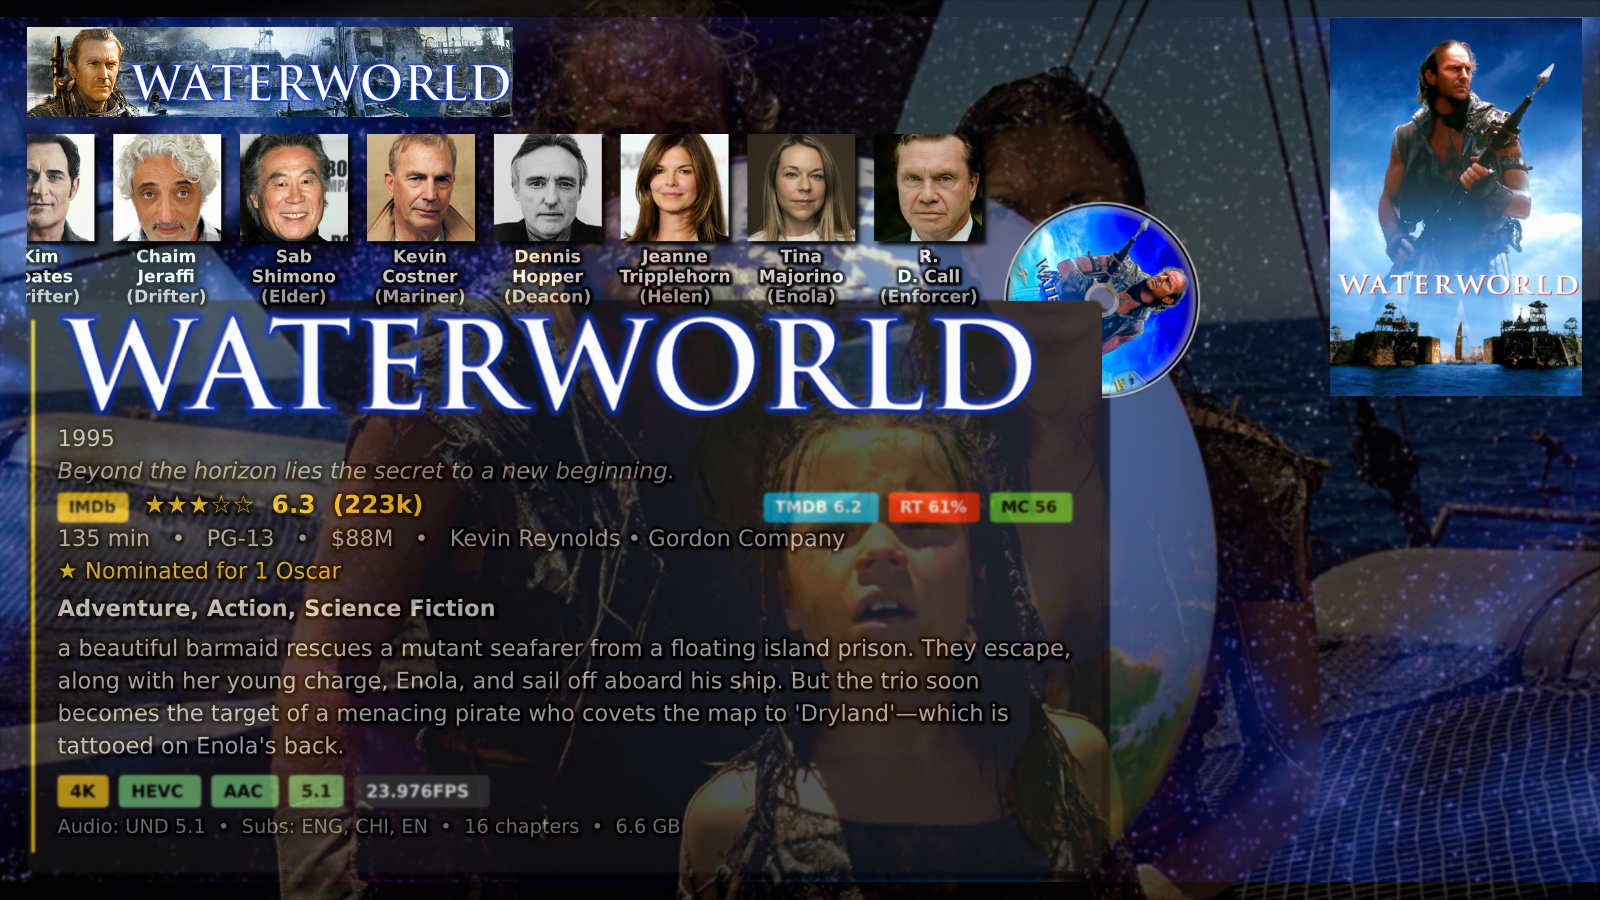
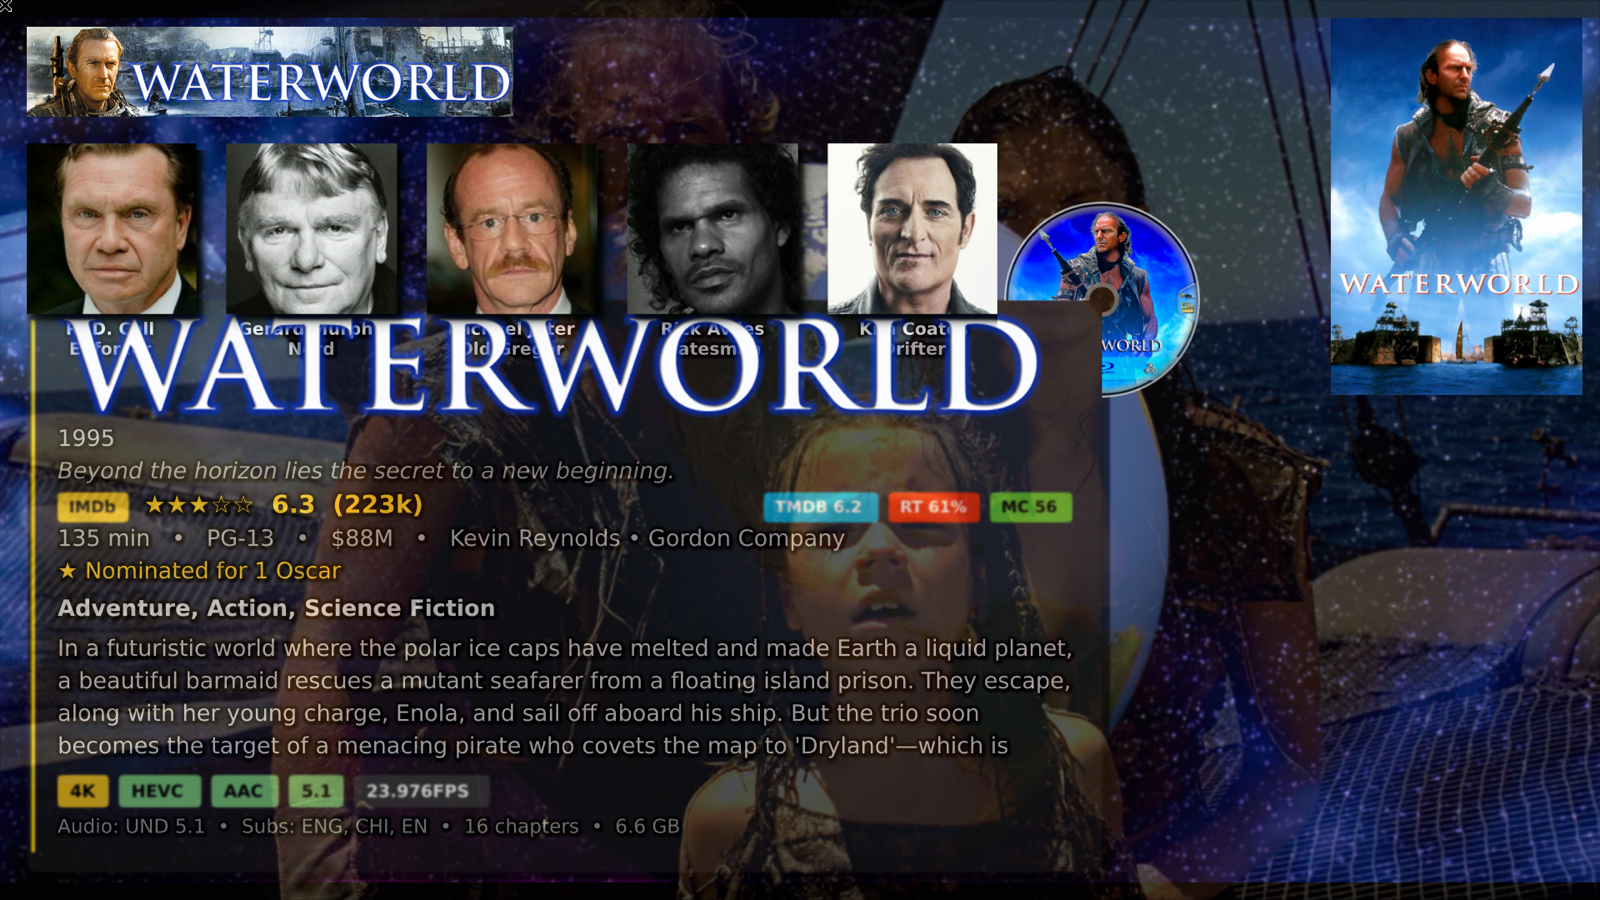
spincard: enlarge cast-head strip (0.19), one-line names, drop role parens; refresh README shots
- casthead_height 0.12 -> 0.19 so name/role labels get more width (label fs stays 16, so wider box fits more chars).
- Cast-head labels: names now a single line (both scroll + static); role line drops the () wrapper.
- Refresh README screenshots (1600x900): Waterworld, Breaking Bad S04E01, and the remote-art shot -> Mechanic: Resurrection (Avatar: Fire and Ash gained local poster/fanart, so it no longer shows the TMDB clearlogo). README alt-text updated to match.

diff --git a/README.md b/README.md
@@ -14,7 +14,7 @@ unless you add its key.
 
 ![spincard — Waterworld: a top-left scrolling cast-headshot strip with names and roles, local banner and clearlogo title, poster and a spinning disc, an IMDb · Rotten Tomatoes · Metacritic · TMDB rating row, awards, box office, genres, scrolling plot and tier-coloured tech pills](docs/screenshots/spindisc.png)
 
-![spincard — Avatar: Fire and Ash: a scrolling cast-headshot strip, plus TMDB-hosted clearlogo, poster and fanart with no local artwork, an IMDb · Rotten Tomatoes · Metacritic · TMDB rating row, "Won 1 Oscar", box office, genres above a scrolling plot](docs/screenshots/movie.png)
+![spincard — Mechanic: Resurrection: a scrolling cast-headshot strip, plus TMDB-hosted clearlogo, poster and fanart with no local artwork, an IMDb · Rotten Tomatoes · Metacritic · TMDB rating row, a nomination, box office, genres above a scrolling plot](docs/screenshots/movie.png)
 
 ![spincard — Breaking Bad TV episode card: a scrolling cast-headshot strip (profiles merged onto the .nfo cast), banner and clearlogo, S04E01 season progress, IMDb and TMDB rating, air date, genres and plot](docs/screenshots/tv.png)
 
